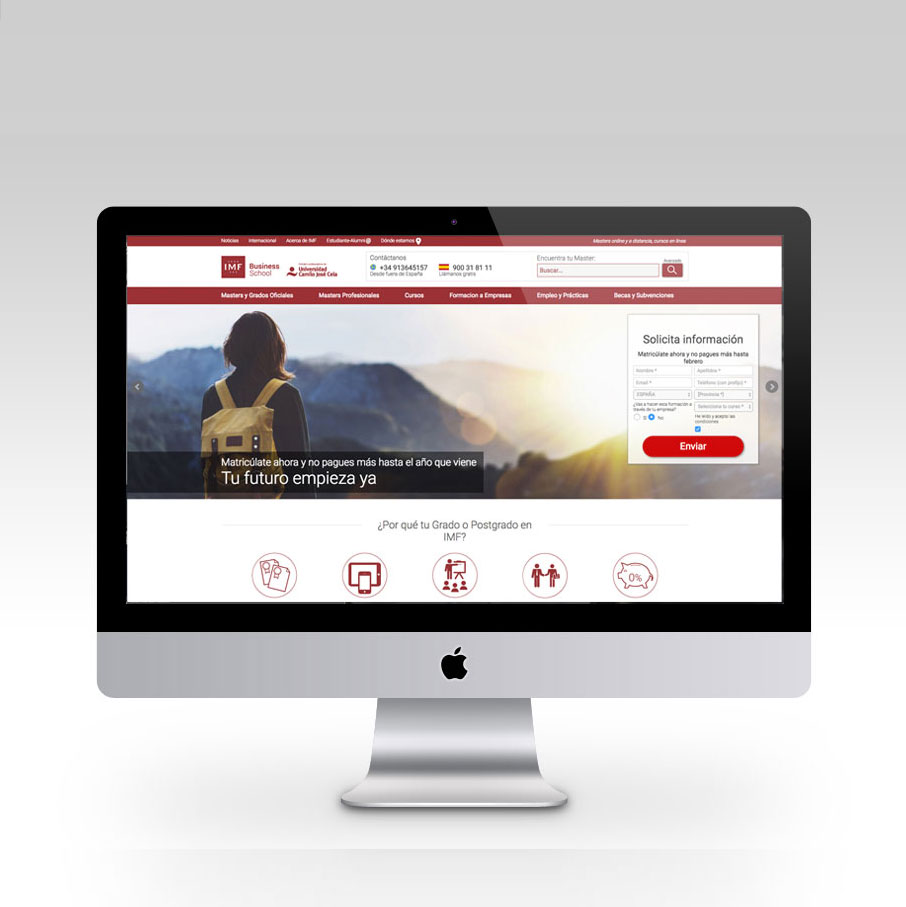
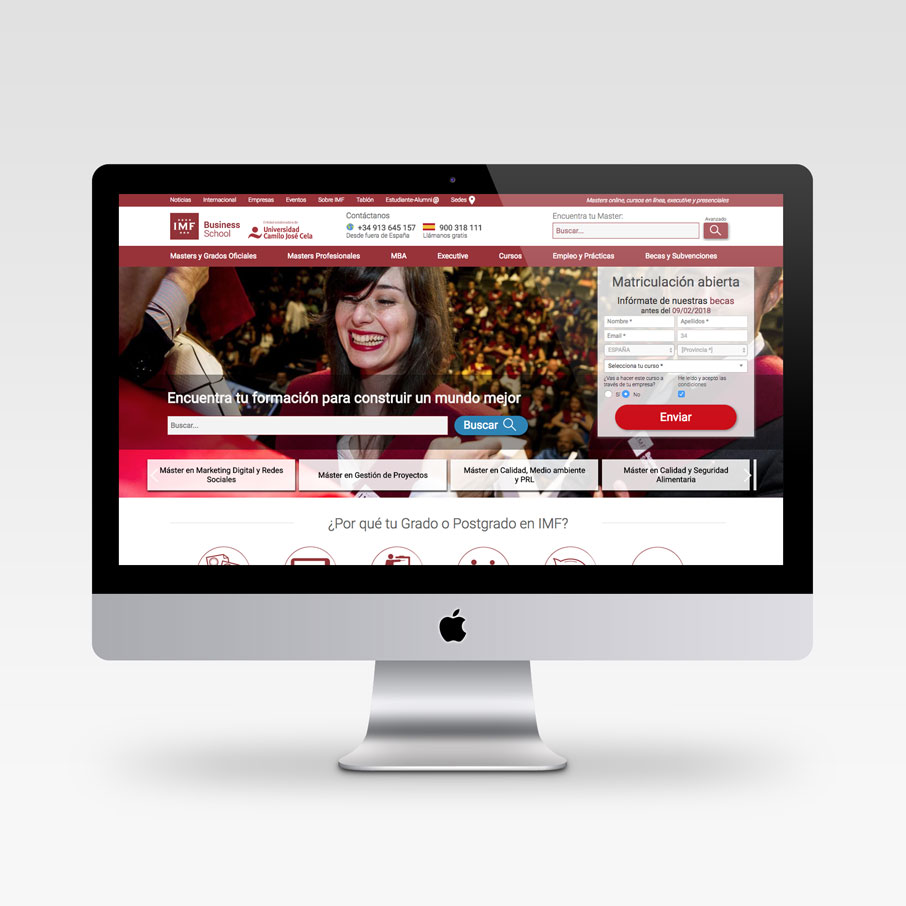
subiendo imgs

diff --git a/resources/assets/sass/_base.scss b/resources/assets/sass/_base.scss
@@ -38,6 +38,8 @@ $color-op-light:rgba(238,111, 73, 1 );
 
 $font-titulo:'Poiret One', cursive;
 $font-cuerpo: 'Lato', sans-serif;
+$font-titulo:'Poiret One', cursive;
+
 $proyect-width:700px;
 
 $max-width:1500px;

diff --git a/database/seeds/ImagesTableSeeder.php b/database/seeds/ImagesTableSeeder.php
@@ -47,6 +47,124 @@ class ImagesTableSeeder extends Seeder {
                 'url' => '/img/web/migayo/web-migayo-celia-gayo-7.png',
                 'project_id' => 2
             ],
+            
+             [
+                'id' => 10101,
+                'url' => '/img/web/takk/web-takk-celia-gayo-1.jpg',
+                'project_id' => 1
+            ],
+            
+            [
+                'id' => 10208,
+                'url' => '/img/web/migayo/web-migayo-celia-gayo-8.jpg',
+                'project_id' => 2
+            ],
+            [
+                'id' => 10209,
+                'url' => '/img/web/migayo/web-migayo-celia-gayo-9.jpg',
+                'project_id' => 2
+            ],
+            [
+                'id' => 10210,
+                'url' => '/img/web/migayo/web-migayo-celia-gayo-10.jpg',
+                'project_id' => 2
+            ],
+            [
+                'id' => 10211,
+                'url' => '/img/web/migayo/web-migayo-celia-gayo-11.jpg',
+                'project_id' => 2
+            ],
+            
+             [
+                'id' => 103201,
+                'url' => '/img/web/imf/web-imf-celia-gayo-1.jpg',
+                'project_id' => 3
+            ],
+            [
+                'id' => 103202,
+                'url' => '/img/web/imf/web-imf-celia-gayo-2.jpg',
+                'project_id' => 3
+            ],
+            [
+                'id' => 103203,
+                'url' => '/img/web/imf/web-imf-celia-gayo-3.jpg',
+                'project_id' => 3
+            ],
+            [
+                'id' => 103204,
+                'url' => '/img/web/imf/web-imf-celia-gayo-4.jpg',
+                'project_id' => 3
+            ],
+            [
+                'id' => 103205,
+                'url' => '/img/web/imf/web-imf-celia-gayo-5.jpg',
+                'project_id' => 3
+            ],
+            [
+                'id' => 103206,
+                'url' => '/img/web/imf/web-imf-celia-gayo-6.jpg',
+                'project_id' => 3
+            ],
+            [
+                'id' => 103207,
+                'url' => '/img/web/imf/web-imf-celia-gayo-7.jpg',
+                'project_id' => 3
+            ],
+              [
+                'id' => 103208,
+                'url' => '/img/web/imf/web-imf-celia-gayo-8.jpg',
+                'project_id' => 3
+            ],
+            [
+                'id' => 11501,
+                'url' => '/img/web/hogo/web-hogo-celia-gayo-1.jpg',
+                'project_id' => 15
+            ],
+            [
+                'id' => 11502,
+                'url' => '/img/web/hogo/web-hogo-celia-gayo-2.jpg',
+                'project_id' => 15
+            ],
+            [
+                'id' => 11503,
+                'url' => '/img/web/hogo/web-hogo-celia-gayo-3.jpg',
+                'project_id' => 15
+            ],
+            [
+                'id' => 11504,
+                'url' => '/img/web/hogo/web-hogo-celia-gayo-4.jpg',
+                'project_id' => 15
+            ],
+            [
+                'id' => 11505,
+                'url' => '/img/web/hogo/web-hogo-celia-gayo-5.jpg',
+                'project_id' => 15
+            ],
+            [
+                'id' => 10401,
+                'url' => '/img/web/formando-imf/web-formando-imf-celia-gayo-1.jpg',
+                'project_id' => 4
+            ],
+            [
+                'id' => 10402,
+                'url' => '/img/web/formando-imf/web-formando-imf-celia-gayo-2.jpg',
+                'project_id' => 4
+            ],
+            [
+                'id' => 10403,
+                'url' => '/img/web/formando-imf/web-formando-imf-celia-gayo-3.jpg',
+                'project_id' => 4
+            ],
+            [
+                'id' => 10404,
+                'url' => '/img/web/formando-imf/web-formando-imf-celia-gayo-4.jpg',
+                'project_id' => 4
+            ],
+            [
+                'id' => 10405,
+                'url' => '/img/web/formando-imf/web-formando-imf-celia-gayo-5.jpg',
+                'project_id' => 4
+            ],
             /* GRAPHIC */
             [
                 'id' => 60,
@@ -113,72 +231,72 @@ class ImagesTableSeeder extends Seeder {
                 'url' => '/img/graphic/photography/photography-celia-gayo-2.jpg',
                 'project_id' => 7
             ],
-                   [
+            [
                 'id' => 82,
                 'url' => '/img/graphic/photography/photography-celia-gayo-3.jpg',
                 'project_id' => 7
             ],
-                   [
+            [
                 'id' => 83,
                 'url' => '/img/graphic/photography/photography-celia-gayo-4.jpg',
                 'project_id' => 7
             ],
-                   [
+            [
                 'id' => 84,
                 'url' => '/img/graphic/photography/photography-celia-gayo-5.jpg',
                 'project_id' => 7
             ],
-                   [
+            [
                 'id' => 85,
                 'url' => '/img/graphic/photography/photography-celia-gayo-6.jpg',
                 'project_id' => 7
             ],
-                   [
+            [
                 'id' => 86,
                 'url' => '/img/graphic/photography/photography-celia-gayo-7.jpg',
                 'project_id' => 7
             ],
-                   [
+            [
                 'id' => 87,
                 'url' => '/img/graphic/photography/photography-celia-gayo-8.jpg',
                 'project_id' => 7
             ],
-                   [
+            [
                 'id' => 88,
                 'url' => '/img/graphic/photography/photography-celia-gayo-9.jpg',
                 'project_id' => 7
             ],
-                   [
+            [
                 'id' => 89,
                 'url' => '/img/graphic/photography/photography-celia-gayo-10.jpg',
                 'project_id' => 7
             ],
-                   [
+            [
                 'id' => 90,
                 'url' => '/img/graphic/photography/photography-celia-gayo-11.jpg',
                 'project_id' => 7
             ],
-                   [
+            [
                 'id' => 91,
                 'url' => '/img/graphic/photography/photography-celia-gayo-12.jpg',
                 'project_id' => 7
             ],
-             [
+            [
                 'id' => 92,
                 'url' => '/img/graphic/photography/photography-celia-gayo-13.jpg',
                 'project_id' => 7
             ],
-             [
+            [
                 'id' => 93,
                 'url' => '/img/graphic/photography/photography-celia-gayo-14.jpg',
                 'project_id' => 7
             ],
-             [
+            [
                 'id' => 94,
                 'url' => '/img/graphic/photography/photography-celia-gayo-15.jpg',
                 'project_id' => 7
             ],
-             [
+            [
                 'id' => 95,
                 'url' => '/img/graphic/photography/photography-celia-gayo-16.jpg',
                 'project_id' => 7
@@ -335,8 +453,6 @@ class ImagesTableSeeder extends Seeder {
                 'url' => '/img/architecture/pfc/architecture-pfc-celia-gayo-9.jpg',
                 'project_id' => 12
             ],
-            
-            
             [
                 'id' => 110,
                 'url' => '/img/architecture/reebok/architecture-reebok-celia-gayo-1.png',
@@ -362,17 +478,17 @@ class ImagesTableSeeder extends Seeder {
                 'url' => '/img/architecture/reebok/architecture-reebok-celia-gayo-5.jpg',
                 'project_id' => 13
             ],
-              [
+            [
                 'id' => 115,
                 'url' => '/img/architecture/reebok/architecture-reebok-celia-gayo-6.jpg',
                 'project_id' => 13
             ],
-                [
+            [
                 'id' => 116,
                 'url' => '/img/architecture/reebok/architecture-reebok-celia-gayo-7.jpg',
                 'project_id' => 13
             ],
-                [
+            [
                 'id' => 117,
                 'url' => '/img/architecture/reebok/architecture-reebok-celia-gayo-8.jpg',
                 'project_id' => 13
@@ -382,7 +498,6 @@ class ImagesTableSeeder extends Seeder {
                 'url' => '/img/architecture/reebok/architecture-reebok-celia-gayo-9.jpg',
                 'project_id' => 13
             ],
-              
         ]);
     }
 

diff --git a/database/seeds/ProjectsTableSeeder.php b/database/seeds/ProjectsTableSeeder.php
@@ -15,7 +15,7 @@ class ProjectsTableSeeder extends Seeder {
             [
                 'id' => 1,
                 'slug' => 'web-takk',
-                'title' => 'Nueva web de la empresa Takk',
+                'title' => 'Takk Group',
                 'url' => 'web/web-takk',
                 'featured_image' => '/img/web/takk/featured-landing-web-takk-celia-gayo.jpg',
                 'detail_one' => ' <p>Las necesidades específicas de la empresa requería de una web que aglutinara los diferentes proyectos que realizan con uno o varios clientes. Por eso, los proyectos se agrupan según cliente... </p>
@@ -24,15 +24,15 @@ class ProjectsTableSeeder extends Seeder {
                 <h3>Herramientas</h3>
                 <ul>
                 <li>SEO, Validaciones W3School, Velocidades de carga, Diseño responsive, UX, Maquetación y programación front.</li>
-                    <li>HTML, CSS, SASS, Laravel, GIT,</li>
+                    <li>HTML, CSS, SASS, Laravel, GIT</li>
                 </ul>
                 ',
-                'detail_two' => '<div class="ver-online"><a title="ver online" href="http://www.takkgroup.es/" title="Visitar web" target="_blank">     <img src="/img/eye.png" title="Ver online" alt="Ver online"/> Ver online </a></div><h2>Diseño y programación Front de la web corporativa de la empresa de retail Takk Group</h2> ',
+                'detail_two' => '<div class="ver-online"><a title="ver online" href="http://www.takkgroup.es/" title="Visitar web" target="_blank">     <img src="/img/eye.png" title="Ver online" alt="Ver online"/> Ver online </a></div><h2>Diseño, maquetación y desarrollo Front de la web corporativa de la empresa de retail Takk Group</h2> ',
             ],
             [
                 'id' => 2,
                 'slug' => 'web-migayo',
-                'title' => 'Web y tienda online de Migayo',
+                'title' => 'MIGAYO',
                 'url' => 'web/web-migayo',
                 'featured_image' => '/img/web/migayo/featured-web-migayo-celia-gayo.jpg',
                 'detail_one' => '',
@@ -41,20 +41,36 @@ class ProjectsTableSeeder extends Seeder {
             [
                 'id' => 3,
                 'slug' => 'web-imf',
-                'title' => 'Web de la Escuela de Negocios IMF',
+                'title' => 'IMF Business School',
                 'url' => 'web/web-imf',
                 'featured_image' => '/img/web/imf/featured-web-imf-celia-gayo.jpg',
                 'detail_one' => 'texto de detalle 1',
-                'detail_two' => '<h2>Diseño y programación Front de la Escuela de Negocios IMF Business School</h2>',
+                'detail_two' => '<h2>Diseño, maquetación y desarrollo Front de la web de la Escuela de Negocios IMF Business School</h2>',
             ],
+            [
+                'id' => 15,
+                'slug' => 'web-hogo',
+                'title' => 'HOGO Beds',
+                'url' => 'web/web-hogo',
+                'featured_image' => '/img/web/formando-imf/featured-web-hogo.jpg',
+                'detail_one' => '<p>La web de la empresa HOGO Beds requería de un diseño muy limpio y onírico. El contenido se estructura en ventanas que van descubriendo al usuario el sistema de descanso. <br/> Botones sutiles que van respirando, apareciendo y desapareciendo, para hacer de la navegación una experiencia relejante.</p>
+ 
+                <br/>
+                    <h3>Herramientas</h3>
+                <ul>
+                    <li>HTML, CSS, SASS, Laravel, GIT</li>
+                </ul>',
+                'detail_two' => '<div class="ver-online"><a title="ver online" href="http://www.hogo.es/" title="Visitar web" target="_blank">     <img src="/img/eye.png" title="Ver online" alt="Ver online"/> Ver online </a></div><h2>Maquetación y desarrollo Front de la web</h2> ',
+            ]
+            ,
             [
                 'id' => 4,
                 'slug' => 'web-formando-imf',
                 'title' => 'Landing page de formación online',
                 'url' => 'web/web-formando-imf',
-                'featured_image' => '/img/web/formando-imf/featured-landing-formando-imf-celia-gayo.jpg',
+                'featured_image' => '/img/web/formando-imf/featured-web-formando-imf-celia-gayo.jpg',
                 'detail_one' => 'texto de detalle 1',
-                'detail_two' => '<h2>Diseño y programación Front de lanidng pages para escuela de formación</h2>',
+                'detail_two' => '<h2>Diseño, maquetación y desarrollo Front de landing pages para escuela de formación</h2>',
             ]
             ,
             [

diff --git a/resources/views/layout/navbar.blade.php b/resources/views/layout/navbar.blade.php
@@ -5,12 +5,13 @@
         <p class="box-abremenu">menú</p>
         <nav>
             <div class="menu-ap" ><a href="/" title="Ir al inicio">Inicio</a></div>
-            <div class="menu-ap"><a href="/sobre-celia-gayo" title="Saber más sobre mi">Sobre mi</a></div>
-            <div class="menu-ap"><a href="/contacto" title="Contactar">Contacto</a></div>
+          
             @foreach ($categories as $category)
             <div class="menu-ap {{ $category->css_class }}" data-attr="{{ $category->slug }}">{{ $category->title }}</div>
 
             @endforeach
+             <div class="menu-ap"><a href="/sobre-celia-gayo" title="Saber más sobre mi">Sobre mi</a></div>
+            <div class="menu-ap"><a href="/contacto" title="Contactar">Contacto</a></div>
         </nav>
 
     </div>

diff --git a/database/seeds/CategoryProjectTableSeeder.php b/database/seeds/CategoryProjectTableSeeder.php
@@ -24,6 +24,10 @@ class CategoryProjectTableSeeder extends Seeder
                 'project_id' => 3,
                 'category_id' => 1
             ],
+              [
+                'project_id' => 15,
+                'category_id' => 1
+            ],
             [
                 'project_id' => 4,
                 'category_id' => 1
